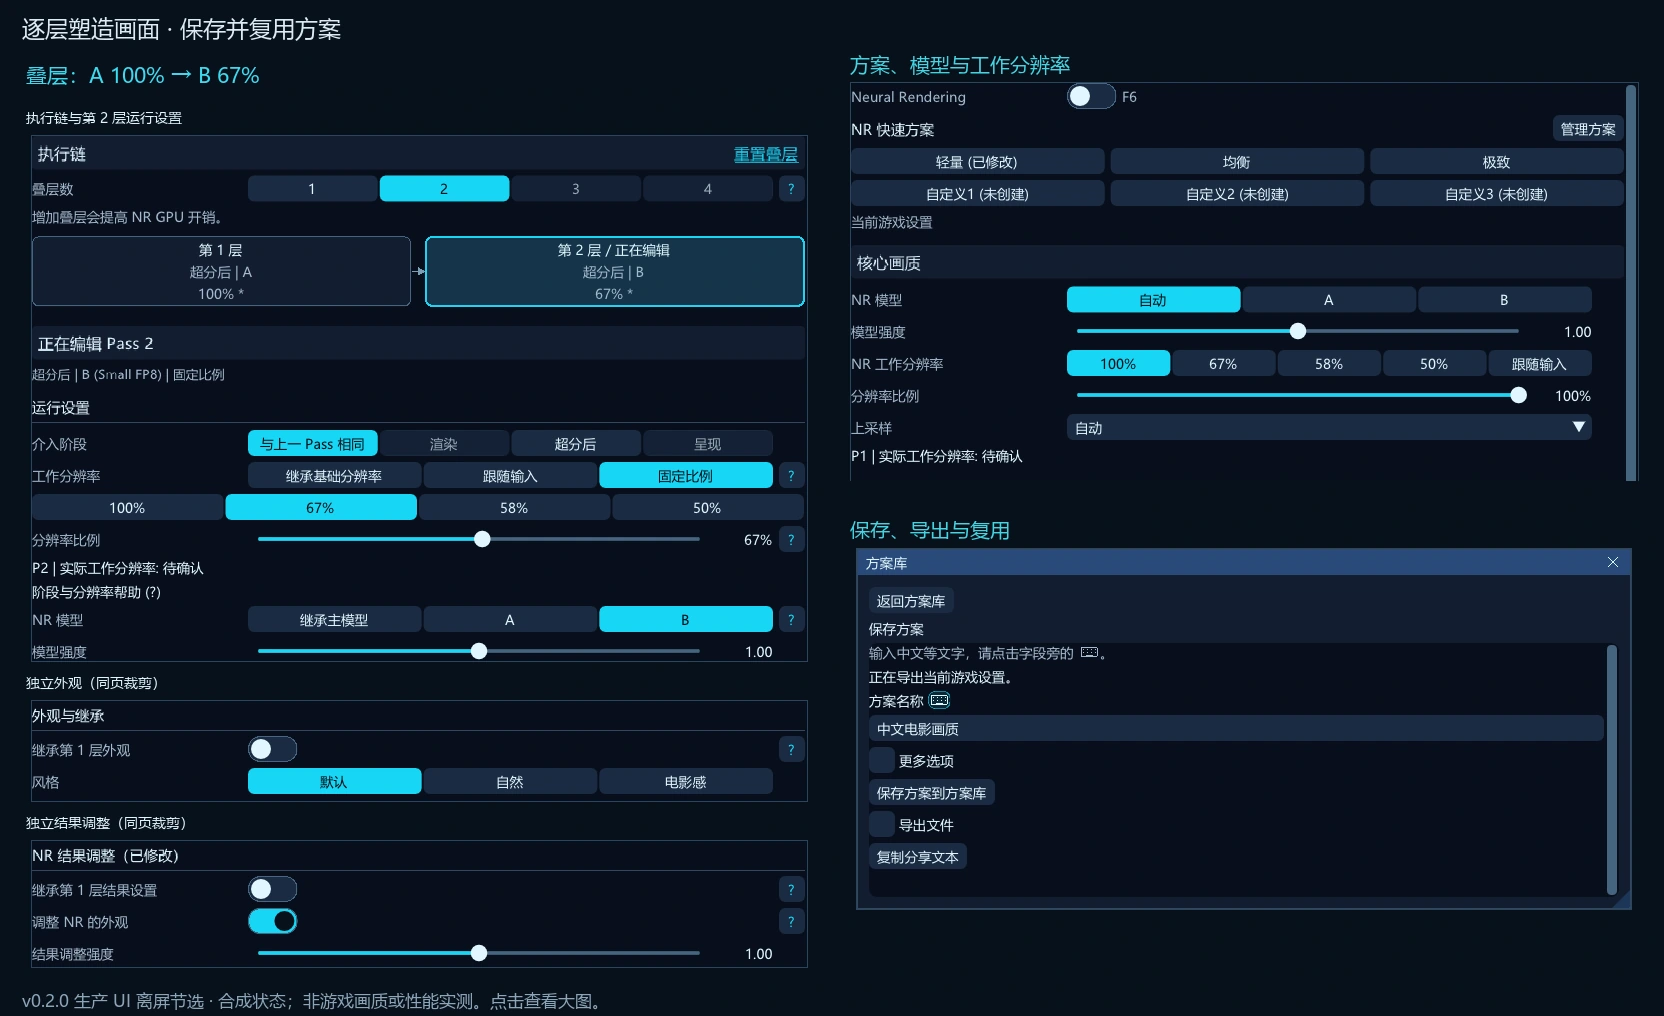
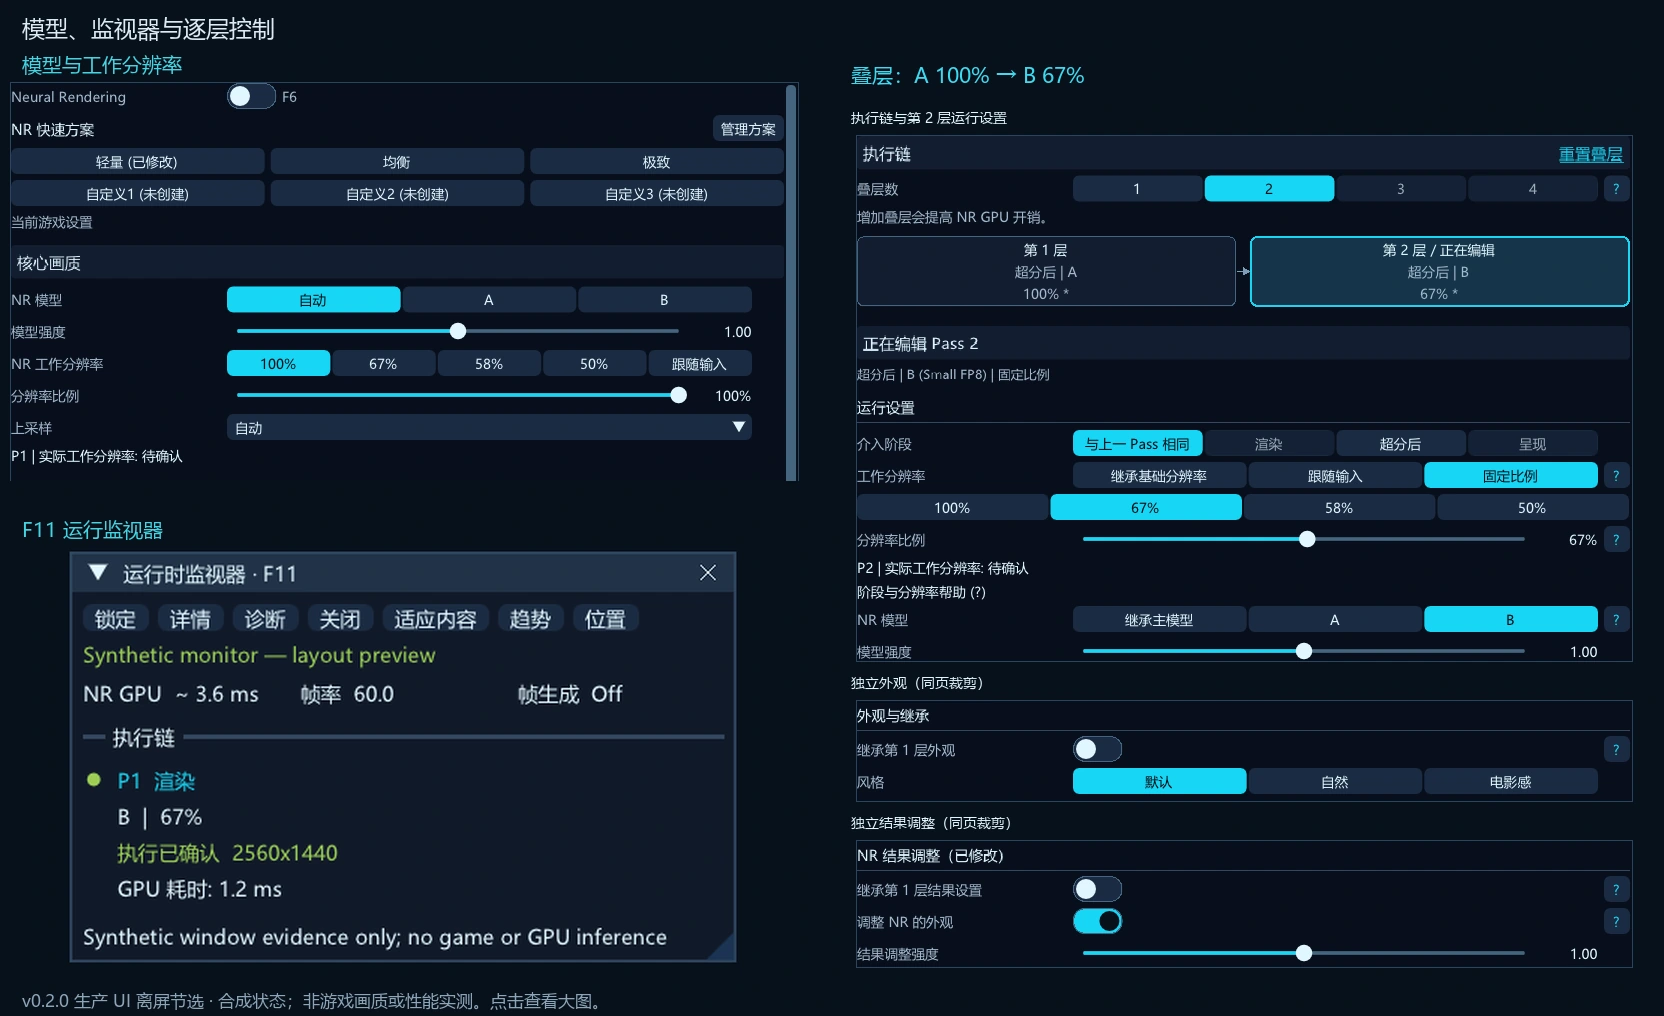
docs: refresh comparison and UI gallery visuals

Changed region(s): [[0.0, 0.0, 1.0, 0.9459], [0.625, 0.8543, 0.9062, 0.9459], [0.75, 0.6102, 0.8125, 0.6713]]

diff --git a/tools/compose-readme-ui.py b/tools/compose-readme-ui.py
@@ -10,31 +10,35 @@ ROOT = Path(__file__).resolve().parents[1]
 def compose(language, output):
     suffix = '-zh' if language == 'zh' else ''
     source = ROOT / 'docs/images/ui'
-    images = {name: Image.open(source / (name + suffix + '.webp')).convert('RGB')
-              for name in ('multipass', 'quality', 'presets')}
+    names = {'multipass': 'multipass', 'quality': 'quality', 'monitor': 'presets'}
+    images = {name: Image.open(source / (filename + suffix + '.webp')).convert('RGB')
+              for name, filename in names.items()}
     # Fixed, recorded crops of reviewed documentation images retain entire control groups.
     crops = {'multipass': (0, 0, 819, 928 if language == 'zh' else 925),
              'quality': (15, 87, 804, 486),
-             'presets': (15, 218, 799, 580)}
+             'monitor': (186, 617, 633, 893) if language == 'zh' else (20, 617, 799, 856)}
     canvas = Image.new('RGB', (1664, 1016), '#08111b')
     draw = ImageDraw.Draw(canvas)
     font_path = Path('C:/Windows/Fonts/msyh.ttc') if language == 'zh' else Path('C:/Windows/Fonts/segoeui.ttf')
     font = ImageFont.truetype(str(font_path), 23)
-    title = '逐层塑造画面 · 保存并复用方案' if language == 'zh' else 'Shape every pass. Save and reuse your profiles.'
+    title = '模型、监视器与逐层控制' if language == 'zh' else 'Models, monitoring and per-pass control'
     draw.text((22, 12), title, font=font, fill='#dcebf3')
-    placements = {'multipass': (10, 48), 'quality': (850, 82), 'presets': (850, 548)}
+    placements = {'multipass': (835, 48), 'quality': (10, 82), 'monitor': (68, 550) if language == 'zh' else (10, 550)}
     section_font = ImageFont.truetype(str(font_path), 20)
-    draw.text((850, 50), '方案、模型与工作分辨率' if language == 'zh' else 'Profiles, model and working resolution', font=section_font, fill='#42d5e3')
-    draw.text((850, 515), '保存、导出与复用' if language == 'zh' else 'Save, export and reuse', font=section_font, fill='#42d5e3')
+    draw.text((22, 50), '模型与工作分辨率' if language == 'zh' else 'Model and working resolution', font=section_font, fill='#42d5e3')
+    draw.text((22, 515), 'F11 运行监视器' if language == 'zh' else 'F11 runtime monitor', font=section_font, fill='#42d5e3')
     records = []
     for name, image in images.items():
         box = crops[name]
         assert box[2] <= image.width and box[3] <= image.height
         crop = image.crop(box)
+        scale = 1.5 if name == 'monitor' and language == 'zh' else 1
+        if scale != 1:
+            crop = crop.resize((round(crop.width * scale), round(crop.height * scale)), Image.Resampling.LANCZOS)
         canvas.paste(crop, placements[name])
-        records.append({'source': 'docs/images/ui/' + name + suffix + '.webp',
-                        'sha256': hashlib.sha256((source / (name + suffix + '.webp')).read_bytes()).hexdigest(),
-                        'crop': list(box), 'position': list(placements[name]), 'scale': 1})
+        records.append({'source': 'docs/images/ui/' + names[name] + suffix + '.webp',
+                        'sha256': hashlib.sha256((source / (names[name] + suffix + '.webp')).read_bytes()).hexdigest(),
+                        'crop': list(box), 'position': list(placements[name]), 'scale': scale})
     small = ImageFont.truetype(str(font_path), 17)
     note = 'v0.2.0 生产 UI 离屏节选 · 合成状态；非游戏画质或性能实测。点击查看大图。' if language == 'zh' else 'v0.2.0 production UI excerpts. Synthetic state; not game quality or performance measurements. Open for full size.'
     draw.text((22, 989), note, font=small, fill='#8da5b8')

diff --git a/README.md b/README.md
@@ -20,13 +20,17 @@ NR Nexus 通过 [ReShade](https://reshade.me/) 为兼容游戏提供 NVIDIA DLSS
 <a id="zh-comparisons"></a>
 ### 游戏实机画面对比
 
-点击图片进入同场景 OFF／ON 滑块对比；也可 Ctrl／Cmd+点击在新标签页打开。更多场景见[实机对比图库](https://williamstosh.github.io/RenoDX-DLSSNR-Nexus/compare/)。
+点击图片进入同场景 OFF／ON 滑块对比，并查看 Ultra HDR 图片（需兼容的浏览器、系统 HDR 设置和显示器）。也可 Ctrl／Cmd+点击在新标签页打开。更多场景见[实机对比图库](https://williamstosh.github.io/RenoDX-DLSSNR-Nexus/compare/)。
 
 <!-- game-compare:zh:start -->
 
 巫师3 — 诺维格瑞 · 教主广场
 
 [![巫师3 — 诺维格瑞 · 教主广场 — 左右拖动查看对比](docs/compare/assets/3-30347b3fdd/scene-35e7d20e1c/becc86134f6282d0/revisions/6a1f84b87f324fc7/readme.webp)](https://williamstosh.github.io/RenoDX-DLSSNR-Nexus/compare/#scene=3-30347b3fdd%2Fscene-35e7d20e1c%2Fbecc86134f6282d0)
+
+巫师3 — 威伦 · 驼背泥沼
+
+[![巫师3 — 威伦 · 驼背泥沼 — 左右拖动查看对比](docs/compare/assets/3-30347b3fdd/scene-4d71462ab3/9d0c90e0d157a5f5/revisions/2de9114747d55d47/readme.webp)](https://williamstosh.github.io/RenoDX-DLSSNR-Nexus/compare/#scene=3-30347b3fdd%2Fscene-4d71462ab3%2F9d0c90e0d157a5f5)
 
 <!-- game-compare:zh:end -->
 
@@ -52,7 +56,7 @@ NR Nexus 通过 [ReShade](https://reshade.me/) 为兼容游戏提供 NVIDIA DLSS
 
 ![NR Nexus 界面总览](docs/images/ui/overview-zh.webp)
 
-*v0.2.0 生产 UI 离屏示例；监视器状态及数值为合成数据。*
+*左上：模型与工作分辨率；左下：F11 运行监视器；右侧：叠层与独立外观／结果编辑。v0.2.0 生产 UI 离屏示例，监视器数值为合成数据。*
 
 <a id="zh-install"></a>
 ### 下载、安装与使用
@@ -225,13 +229,17 @@ The add-on performs no denoising.
 <a id="en-comparisons"></a>
 ### In-game Comparisons
 
-Click the image to open the same-scene OFF/ON slider. Ctrl/Cmd-click opens it in a new tab. Browse more scenes in the [comparison gallery](https://williamstosh.github.io/RenoDX-DLSSNR-Nexus/compare/).
+Click an image to compare the same scene with the OFF/ON slider and view Ultra HDR images (requires a compatible browser, system HDR settings and display). Ctrl/Cmd-click opens it in a new tab. Browse more scenes in the [comparison gallery](https://williamstosh.github.io/RenoDX-DLSSNR-Nexus/compare/).
 
 <!-- game-compare:en:start -->
 
 The Witcher 3 — Novigrad · Hierarch Square
 
 [![The Witcher 3 — Novigrad · Hierarch Square — Interactive Comparison](docs/compare/assets/3-30347b3fdd/scene-35e7d20e1c/becc86134f6282d0/revisions/6a1f84b87f324fc7/readme.webp)](https://williamstosh.github.io/RenoDX-DLSSNR-Nexus/compare/#scene=3-30347b3fdd%2Fscene-35e7d20e1c%2Fbecc86134f6282d0)
+
+The Witcher 3 — Velen · Crookback Bog
+
+[![The Witcher 3 — Velen · Crookback Bog — Interactive Comparison](docs/compare/assets/3-30347b3fdd/scene-4d71462ab3/9d0c90e0d157a5f5/revisions/2de9114747d55d47/readme.webp)](https://williamstosh.github.io/RenoDX-DLSSNR-Nexus/compare/#scene=3-30347b3fdd%2Fscene-4d71462ab3%2F9d0c90e0d157a5f5)
 
 <!-- game-compare:en:end -->
 
@@ -257,7 +265,7 @@ The interface offers **15 languages and seven themes**, with automatic ReShade l
 
 ![NR Nexus interface overview](docs/images/ui/overview.webp)
 
-*Offscreen examples of the v0.2.0 production UI; monitor status and values are synthetic.*
+*Top left: model and working resolution; bottom left: F11 runtime monitor; right: Multi-Pass with independent look/result editing. Offscreen excerpts of the v0.2.0 production UI; monitor values are synthetic.*
 
 <a id="en-install"></a>
 ### Download, install and use

diff --git a/docs/UI_SNAPSHOTS.md b/docs/UI_SNAPSHOTS.md
@@ -43,7 +43,7 @@ Quick 使用 Cyber Neon／简体中文，包含四页真实“展开全部／折
 
 ## 产物与故障
 
-README 的紧凑组合图可运行 `python tools/compose-readme-ui.py`，从已经审核的中英文文档单页生成候选，不重新捕获或改变生产控件。候选位于 `artifacts/ui-snapshots/readme-collage/`；报告记录源图哈希、裁剪区域、位置和压缩参数。逐张检查文本、完整控件组及语言后，再将 `overview-zh.webp`／`overview.webp` 复制到 `docs/images/ui/`。指南继续引用原始单页；组合图不替代完整菜单或实机验收。
+README 的紧凑组合图可运行 `python tools/compose-readme-ui.py`，从已经审核的中英文文档单页生成候选，不重新捕获或改变生产控件。固定布局为左上模型与工作分辨率、左下 F11 监视器、右侧叠层。候选位于 `artifacts/ui-snapshots/readme-collage/`；报告记录源图哈希、裁剪区域、等比例缩放、位置和压缩参数。逐张检查文本、完整控件组及语言后，再将 `overview-zh.webp`／`overview.webp` 复制到 `docs/images/ui/`，同步 README 中英文图下注释。指南继续引用原始单页；组合图不替代完整菜单或实机验收。
 
 仅完整成功且源码输入未变化的候选可进入 latest。失败保留 `.work-*`／`.pending-*` 和 `last-failure.json`；旧 latest 不受影响，部分渲染的总览标记 partial 并列出失败项。
 
